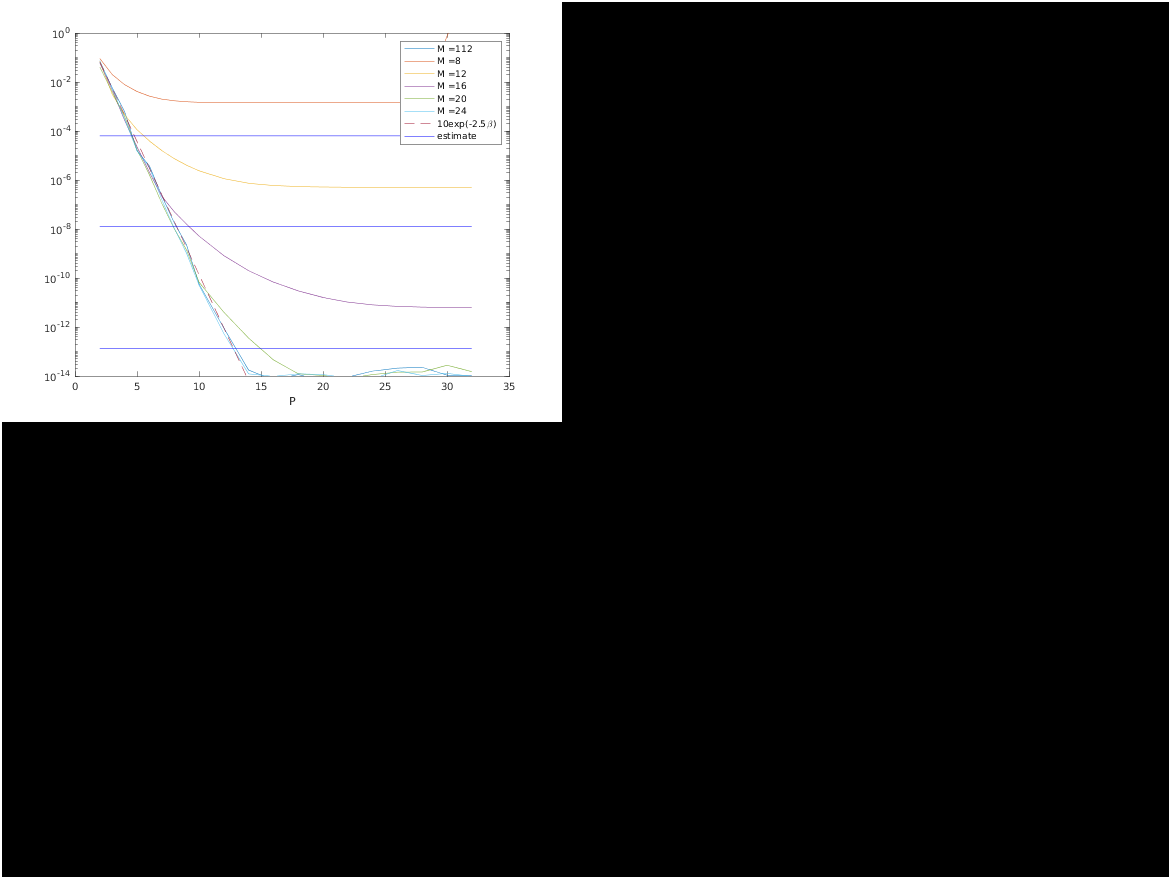
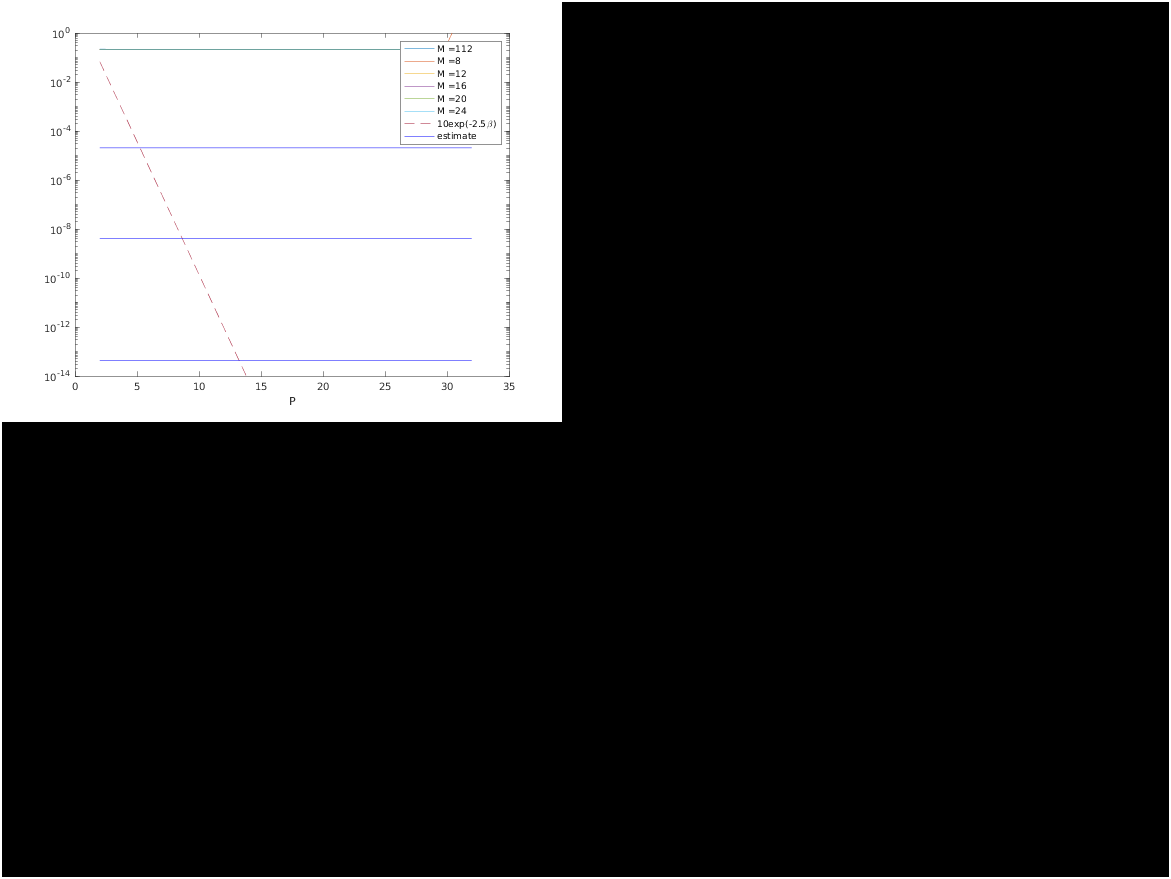
imgs

Changed region(s): [[0.0922, 0.0922, 0.3382, 0.3072], [0.1845, 0.3686, 0.2767, 0.43], [0.3074, 0.3993, 0.3997, 0.43]]

diff --git a/SE_Stokes_run/SE3P_Stokes/P_error.m b/SE_Stokes_run/SE3P_Stokes/P_error.m
@@ -51,6 +51,7 @@ str = {};
 est = @(M,xi,L,f) sqrt(f)*(xi^3*L^2/(pi^4*(M/2)^(3/2)))*exp(-(pi*(M/2)/(xi*L))^2);
 e_vec = [];
 F = sum(norm(f.^2));
+A = @(a,b) (1/0.3548)*sqrt(a)*b;
 for M = [112 MM]
 	
 	opt.M = M*[1,1,1];
@@ -58,14 +59,13 @@ for M = [112 MM]
 	rms_err = [];
     
 	for P = PP
-		
     		opt.P = P;
     		u = SE3P_Stokes(1:N, x, f, opt);
-    		rms_err = [rms_err rmse(u-ref)/rms_ref];
+    		rms_err = [rms_err rmse(u-ref)/A(F,opt.xi)];
 		
     end
     e = est(M,opt.xi,L,F);
-    e_vec = [e_vec, e./rms_ref];
+    e_vec = [e_vec, e./A(F,opt.xi)];
 	semilogy(PP,rms_err)
    
 	hold on

diff --git a/SE_Stokes_run/SE3P_Stokes/amp_param.m b/SE_Stokes_run/SE3P_Stokes/amp_param.m
@@ -30,7 +30,7 @@ for L = LL
         end
     end
 end
-aMA = mean(MA);
+aMA = mean(MA)
 MA = MA./aMA;
 plot(1:length(MA),MA,'*')
 axis([1,length(MA),0.8,1.2]);
